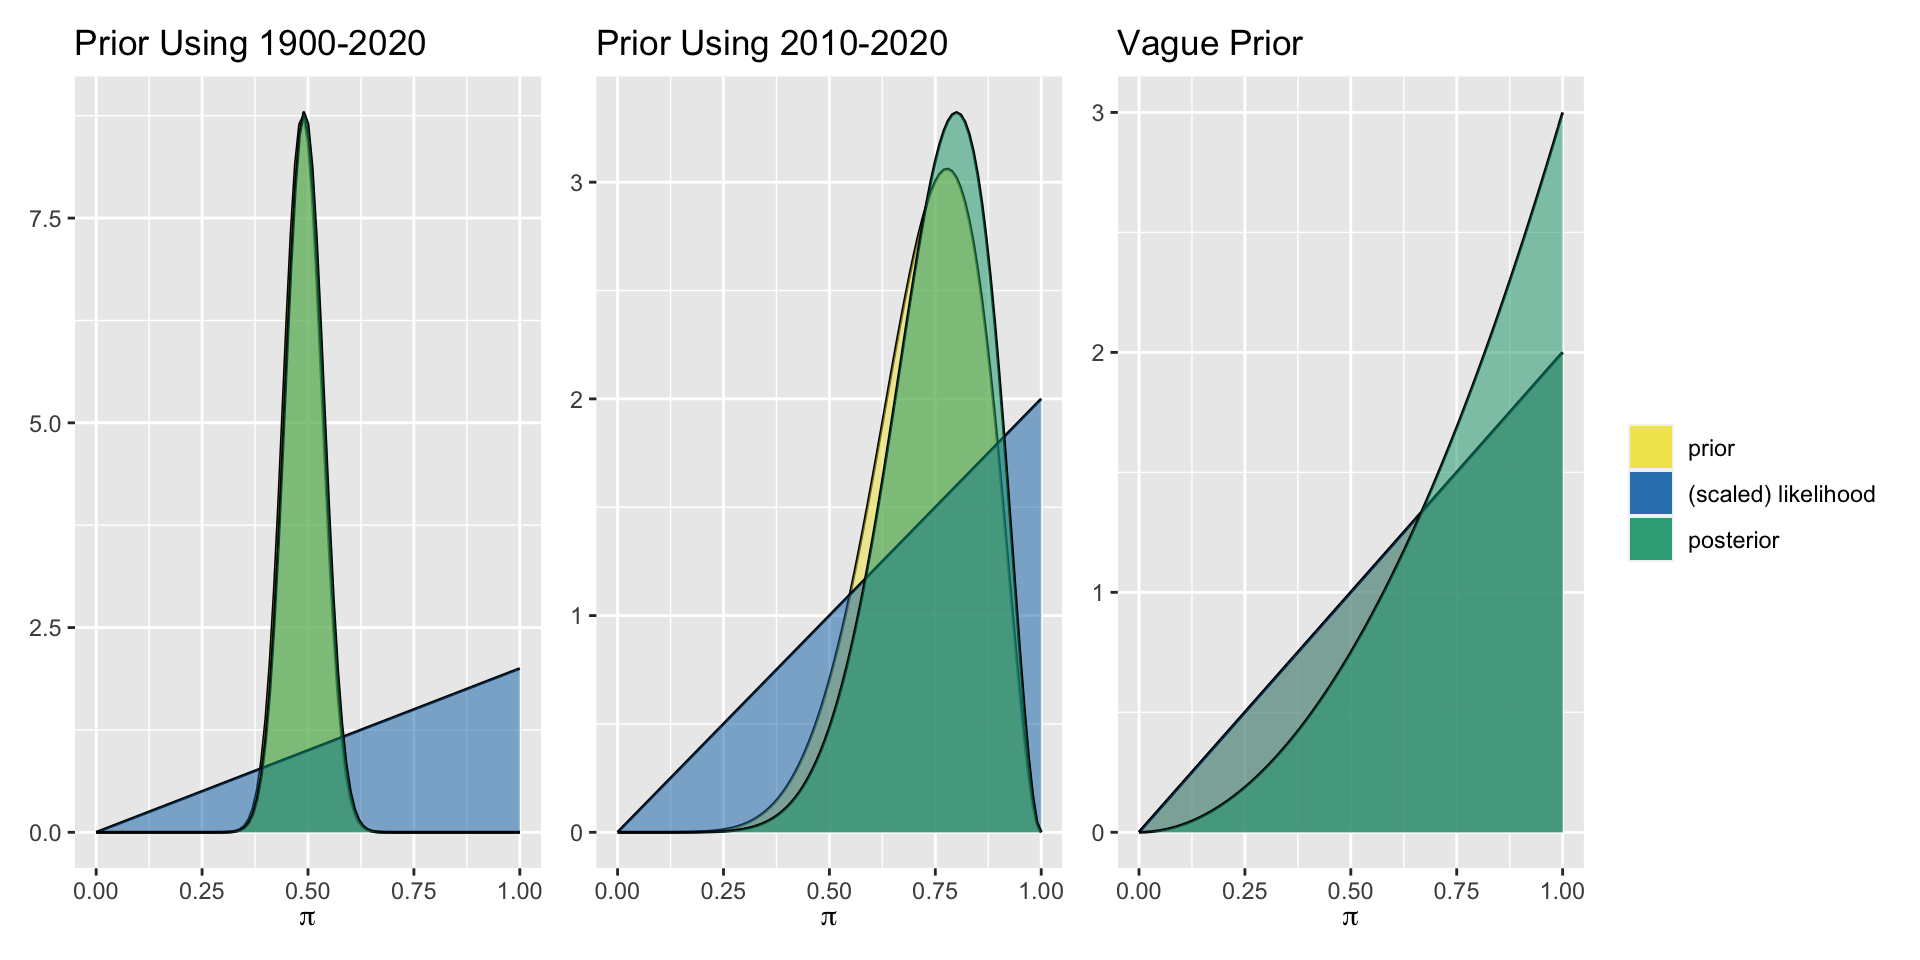
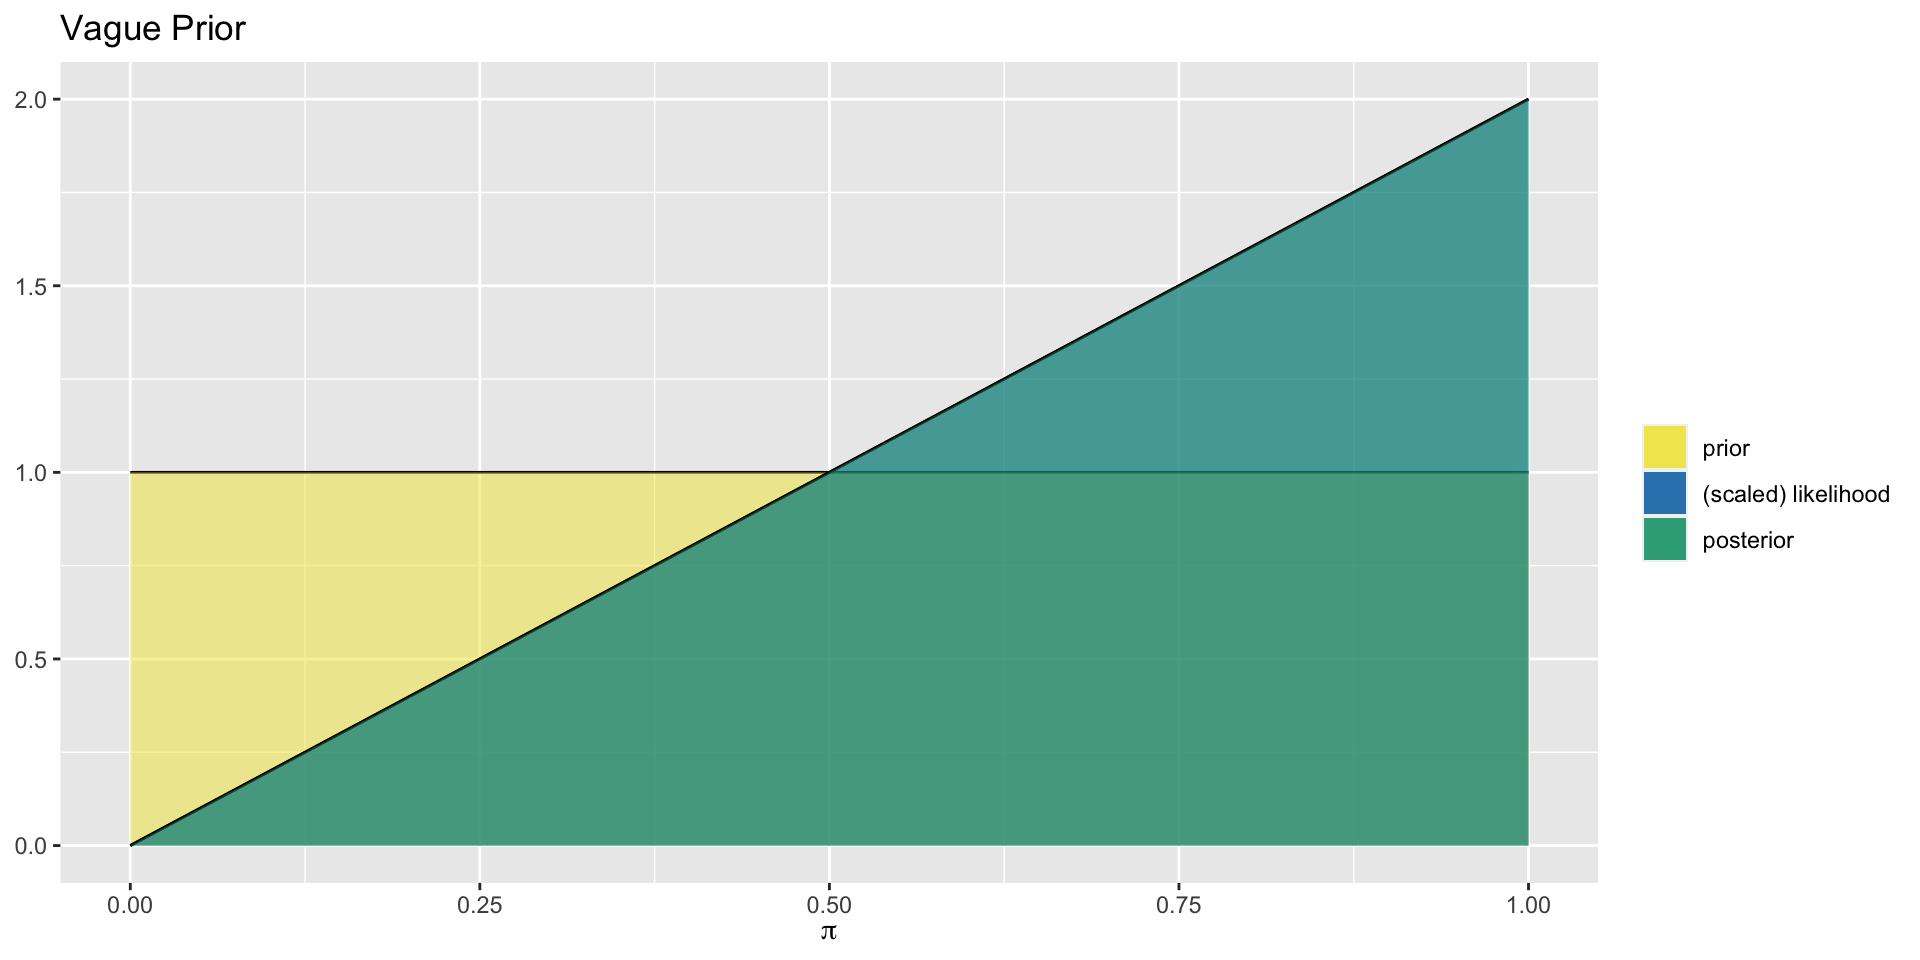
day 2 edits -- addressing q from day 1

diff --git a/day-2-simulations/1-lec-posterior-conjugate/1-lec-posterior-conjugate.html b/day-2-simulations/1-lec-posterior-conjugate/1-lec-posterior-conjugate.html
@@ -542,6 +542,11 @@
 </div>
 </div>
 </section>
+<section id="aside-posterior-proportional-to-likelihood" class="slide level2">
+<h2>Aside: Posterior Proportional to Likelihood</h2>
+
+<img data-src="1-lec-posterior-conjugate_files/figure-revealjs/unnamed-chunk-6-1.png" width="960" class="r-stretch"><p>For the uniform prior distribution, the prior takes the same value everywhere, so the posterior distribution (generally proportional to the prior times the likelihood) is simply proportional to the likelihood.</p>
+</section>
 <section id="section-2" class="slide level2">
 <h2>2021</h2>
 <p>Now, take your posterior and use it as the prior distribution for analysis of the data from 2021.</p>
@@ -609,7 +614,7 @@
 <div id="tabset-2-3">
 <div class="cell">
 <div class="cell-output-display">
-<p><img data-src="1-lec-posterior-conjugate_files/figure-revealjs/unnamed-chunk-7-1.png" width="960"></p>
+<p><img data-src="1-lec-posterior-conjugate_files/figure-revealjs/unnamed-chunk-8-1.png" width="960"></p>
 </div>
 </div>
 </div>
@@ -683,7 +688,7 @@
 <div id="tabset-3-3">
 <div class="cell">
 <div class="cell-output-display">
-<p><img data-src="1-lec-posterior-conjugate_files/figure-revealjs/unnamed-chunk-9-1.png" width="960"></p>
+<p><img data-src="1-lec-posterior-conjugate_files/figure-revealjs/unnamed-chunk-10-1.png" width="960"></p>
 </div>
 </div>
 </div>
@@ -724,7 +729,7 @@
 <span id="cb7-2"><a href="#cb7-2"></a>  <span class="fu">geom_density</span>()</span></code><button title="Copy to Clipboard" class="code-copy-button"><i class="bi"></i></button></pre></div>
 
 </div>
-<img data-src="1-lec-posterior-conjugate_files/figure-revealjs/unnamed-chunk-11-1.png" width="960" class="r-stretch"></section>
+<img data-src="1-lec-posterior-conjugate_files/figure-revealjs/unnamed-chunk-12-1.png" width="960" class="r-stretch"></section>
 <section id="the-normal-model" class="slide level2">
 <h2>The Normal Model</h2>
 <p>Let <span class="math inline">\(Y\)</span> be a random variable which can take any value between <span class="math inline">\(-\infty\)</span> and <span class="math inline">\(\infty\)</span>, ie. <span class="math inline">\(Y \in (-\infty,\infty)\)</span>. Then the variability in <span class="math inline">\(Y\)</span> might be well represented by a Normal model with <strong>mean parameter</strong> <span class="math inline">\(\mu \in (-\infty, \infty)\)</span> and <strong>standard deviation parameter</strong> <span class="math inline">\(\sigma &gt; 0\)</span>:</p>
@@ -779,7 +784,7 @@ f(\mu) = \frac{1}{\sqrt{2\pi\tau^2}} \exp\bigg[{-\frac{(\mu - \theta)^2}{2\tau^2
 <section id="n6.5-0.52-distribution" class="slide level2">
 <h2><span class="math inline">\(N(6.5, 0.5^2)\)</span> Distribution</h2>
 
-<img data-src="1-lec-posterior-conjugate_files/figure-revealjs/unnamed-chunk-12-1.png" width="960" class="r-stretch"></section>
+<img data-src="1-lec-posterior-conjugate_files/figure-revealjs/unnamed-chunk-13-1.png" width="960" class="r-stretch"></section>
 <section id="the-normal-normal-bayesian-model" class="slide level2">
 <h2>The Normal-Normal Bayesian Model</h2>
 <p>Let <span class="math inline">\(\mu \in (-\infty,\infty)\)</span> be an unknown <em>mean</em> parameter and <span class="math inline">\((Y_1,Y_2,\ldots,Y_n)\)</span> be an independent <span class="math inline">\(N(\mu,\sigma^2)\)</span> sample where <span class="math inline">\(\sigma\)</span> is assumed to be <em>known</em> (we’ll relax this strong assumption shortly). The Normal-Normal Bayesian model complements the Normal structure of the data with a Normal prior on <span class="math inline">\(\mu\)</span>:</p>
@@ -812,7 +817,7 @@ Y_i | \mu &amp; \stackrel{ind}{\sim} N(\mu, \sigma^2) \\
 <section id="section-7" class="slide level2">
 <h2></h2>
 
-<img data-src="1-lec-posterior-conjugate_files/figure-revealjs/unnamed-chunk-13-1.png" width="864" class="r-stretch"></section>
+<img data-src="1-lec-posterior-conjugate_files/figure-revealjs/unnamed-chunk-14-1.png" width="864" class="r-stretch"></section>
 <section id="section-8" class="slide level2 center">
 <h2></h2>
 <div class="cell">
